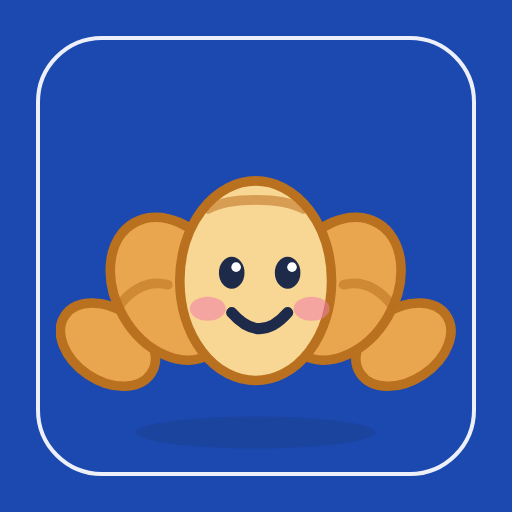
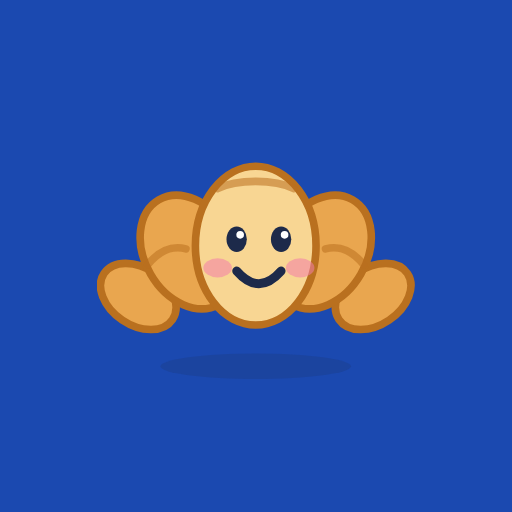
Реплика талисмана читается в тёмной теме, иконка для Android с полями и рисунком по центру, заглавная буква после пропуска в начале фразы

diff --git a/css/style.css b/css/style.css
@@ -399,7 +399,7 @@ body::before {
 .hero .chip { background: rgba(255, 255, 255, .2); border: 1px solid rgba(255, 255, 255, .38); color: #fff; -webkit-backdrop-filter: blur(8px); backdrop-filter: blur(8px); }
 .hero-art { position: relative; align-self: end; padding-top: 22px; }
 .hero-art .mascot { display: block; width: 112px; height: auto; animation: floaty 3.4s ease-in-out infinite; filter: drop-shadow(0 8px 10px rgba(5, 20, 70, .3)); }
-.say { position: absolute; right: 6px; top: -4px; background: #fff; color: var(--c-ink); font-family: var(--f-ui); font-weight: 600; font-size: 13px; padding: 6px 11px; border-radius: 14px 14px 4px 14px; box-shadow: 0 6px 14px rgba(5, 20, 70, .25); animation: floaty 3.4s ease-in-out -1s infinite; white-space: nowrap; }
+.say { position: absolute; right: 6px; top: -4px; background: #fff; color: var(--c-face); font-family: var(--f-ui); font-weight: 600; font-size: 13px; padding: 6px 11px; border-radius: 14px 14px 4px 14px; box-shadow: 0 6px 14px rgba(5, 20, 70, .25); animation: floaty 3.4s ease-in-out -1s infinite; white-space: nowrap; }
 .hero-cta { grid-column: 1 / -1; }
 .pool-bar { height: 14px; border-radius: 999px; border: 0; background: var(--surface2); box-shadow: inset 0 0 0 1px var(--line); }
 .pool-bar > i { transition: width .6s cubic-bezier(.2, .8, .2, 1); }

diff --git a/tools/icon.html b/tools/icon.html
@@ -2,8 +2,8 @@
 <link rel="stylesheet" href="../css/style.css">
 <style>html,body{margin:0;height:100%;overflow:hidden}body{background:#1B49B0!important;display:grid;place-items:center}body::before{display:none}
 .frame{position:absolute;inset:7%;border-radius:15%;border:.9vmin solid rgba(255,255,255,.92)}
-.m{position:relative;width:78vmin;display:grid;place-items:center;margin-top:-9vmin}.mask .frame{display:none}.mask .m{width:62vmin;margin-top:-7vmin}</style>
+.m{position:relative;width:78vmin;display:grid;place-items:center;margin-top:-9vmin}.mask .frame{display:none}.mask .m{width:62vmin;margin-top:-7vmin;transform:translateY(-11vmin)}</style>
 <div id="r"></div><script src="../js/art.js"></script>
-<script>const mask=location.hash==='#mask';document.getElementById('r').className=mask?'mask':'';
+<script>const mask=location.hash==='#mask';document.body.className=mask?'mask':'';
 const f=document.createElement('div');f.className='frame';const m=document.createElement('div');m.className='m';m.append(mascot('happy',1000));m.firstChild.style.width='100%';m.firstChild.style.height='auto';
 document.body.append(f,m);</script>

diff --git a/tools/audio_texts.js b/tools/audio_texts.js
@@ -22,7 +22,12 @@ LESSONS.forEach(l => {
 // year grammar course: examples, the solution of every task (read aloud only after an attempt) and the verb infinitives
 // (mirrors gcSolution in js/gc_core.js)
 const gc = JSON.parse(read('data/grammar_course.json'));
-const gcSol = e => e.type === 'cloze' ? e.stimulus_fr.replace('___', e.accepted_answers[0]).replace(/\s*\([^)]*\)\s*$/, '').replace(/([’'])\s+/g, '$1')
+const gcFill = e => {
+  const [before] = e.stimulus_fr.split('___'), a = e.accepted_answers[0];
+  const ans = /(^|[.?!]\s+)$/.test(before) ? a.charAt(0).toUpperCase() + a.slice(1) : a;
+  return e.stimulus_fr.replace('___', ans).replace(/\s*\([^)]*\)\s*$/, '').replace(/([’'])\s+/g, '$1');
+};
+const gcSol = e => e.type === 'cloze' ? gcFill(e)
   : e.type === 'transform' ? e.accepted_answers[0] : e.type === 'choice' ? e.options.find(o => o.id === e.correct_option_id).text : (e.model_answer_fr || '');
 gc.modules.forEach(m => { m.examples.forEach(x => add(x.tts_text)); m.exercises.forEach(e => add(gcSol(e))); });
 gc.checkpoints.forEach(c => c.exercises.forEach(e => add(gcSol(e))));

diff --git a/js/gc_core.js b/js/gc_core.js
@@ -78,7 +78,10 @@ function gcCheck(e, typed) {
   return 'bad';
 }
 function gcFill(e) {
-  return e.stimulus_fr.replace('___', e.accepted_answers[0]).replace(/\s*\([^)]*\)\s*$/, '').replace(/([’'])\s+/g, '$1');
+  const [before] = e.stimulus_fr.split('___'), a = e.accepted_answers[0];
+  // a gap at the start of a sentence takes a capital letter: "Le billet ? Je le lui donne…"
+  const ans = /(^|[.?!]\s+)$/.test(before) ? a.charAt(0).toUpperCase() + a.slice(1) : a;
+  return e.stimulus_fr.replace('___', ans).replace(/\s*\([^)]*\)\s*$/, '').replace(/([’'])\s+/g, '$1');
 }
 // Russian is never sent to the French voice
 const gcSpeakable = t => !!t && !/[А-Яа-яЁё]/.test(t);

diff --git a/sw.js b/sw.js
@@ -3,7 +3,7 @@
    Libraries, icons, fonts: cache first. Firebase traffic is never touched. */
 // The cache name has its own prefix: both apps live on annkka3.github.io and share Cache Storage, so a generic
 // 'shell-' prefix would let one app's cleanup delete the other's cache.
-const VERSION = 'v7';
+const VERSION = 'v8';
 const PREFIX = 'pv-shell-';
 const CACHE = PREFIX + VERSION;
 const CORE = [
